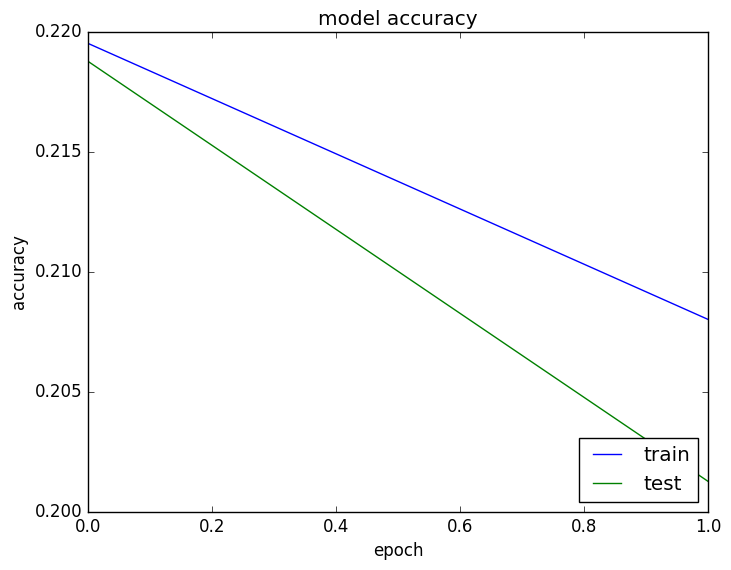
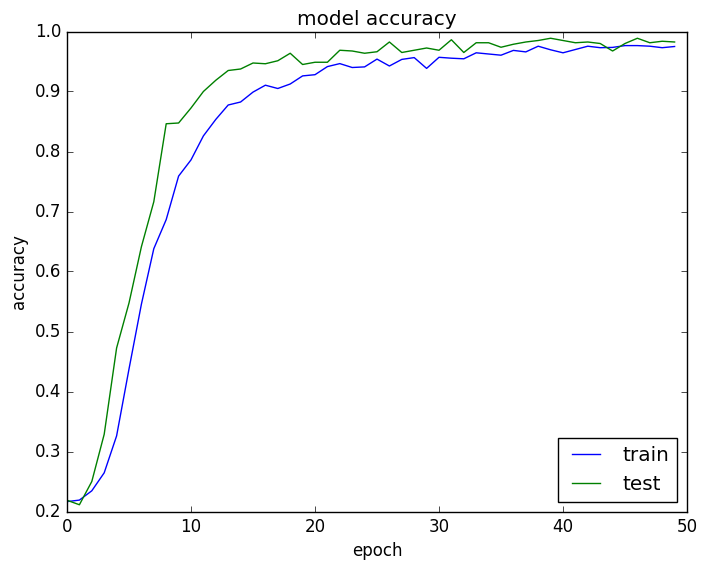
Val-Err=1.25%, Test-Err=2.38%

diff --git a/main.py b/main.py
@@ -131,7 +131,7 @@ print 'fitting model'
 history = model.fit_generator(
 	train_generator,
 	samples_per_epoch=i,
-	nb_epoch=2,
+	nb_epoch=50,
 	validation_data=validation_generator,
 	nb_val_samples=j,
 	verbose = 2,
